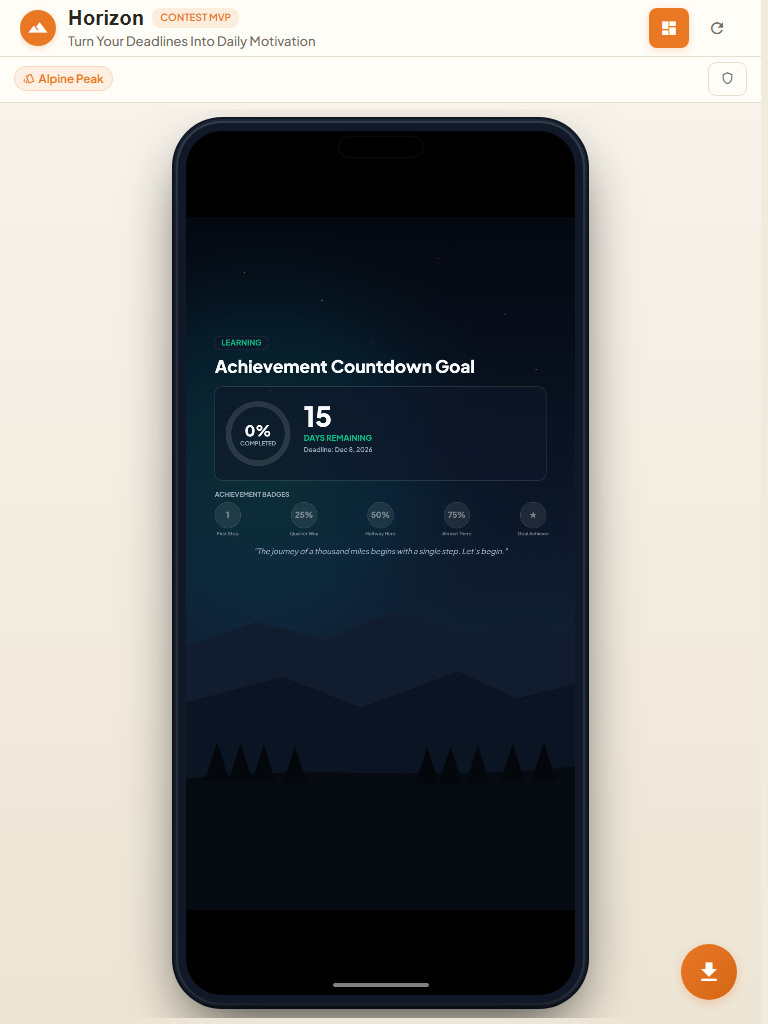
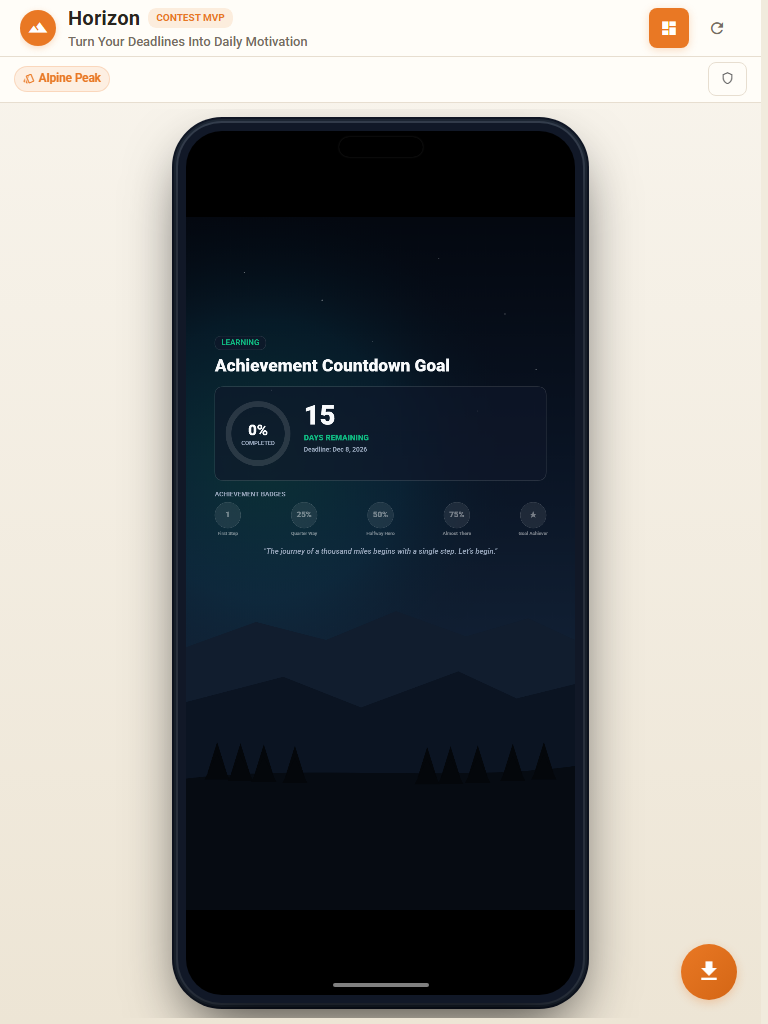
feat(typography): adopt Roboto font across app and wallpaper canvas following Vuetify rules

diff --git a/src/assets/styles.css b/src/assets/styles.css
@@ -45,7 +45,7 @@ html {
 body {
   margin: 0;
   padding: 0;
-  font-family: 'Plus Jakarta Sans', -apple-system, BlinkMacSystemFont, 'Segoe UI', Roboto, Helvetica, Arial, sans-serif;
+  font-family: 'Roboto', -apple-system, BlinkMacSystemFont, 'Segoe UI', Arial, sans-serif !important;
   background-color: var(--color-bg-page);
   color: var(--color-text-primary);
   -webkit-font-smoothing: antialiased;
@@ -56,6 +56,7 @@ body {
 
 /* Base Vuetify overrides for warm cream theme */
 .v-application {
+  font-family: 'Roboto', -apple-system, BlinkMacSystemFont, 'Segoe UI', Arial, sans-serif !important;
   background-color: var(--color-bg-page) !important;
   color: var(--color-text-primary) !important;
   max-width: 100vw;
@@ -160,6 +161,14 @@ body {
   color: var(--color-text-disabled) !important;
   opacity: 1 !important;
 }
+
+/* Vuetify Typography Rule Helpers */
+.font-weight-thin { font-weight: 100 !important; }
+.font-weight-light { font-weight: 300 !important; }
+.font-weight-regular { font-weight: 400 !important; }
+.font-weight-medium { font-weight: 500 !important; }
+.font-weight-bold { font-weight: 700 !important; }
+.font-weight-black { font-weight: 900 !important; }
 
 /* Headings Typography Refinement - Clean reset to eliminate arbitrary margins */
 h1, h2, h3, h4, h5, h6 {

diff --git a/src/services/CanvasWallpaperEngine.js b/src/services/CanvasWallpaperEngine.js
@@ -273,7 +273,7 @@ export class CanvasWallpaperEngine {
    */
   static renderMobileLayout(ctx, width, height, safeZone, data) {
     const { goal, palette, daysRemaining, progressPct, activeMilestone, upcomingMilestone, badges, motivation } = data;
-    const fontPrimary = "'Plus Jakarta Sans', system-ui, -apple-system, sans-serif";
+    const fontPrimary = "'Roboto', -apple-system, BlinkMacSystemFont, system-ui, sans-serif";
 
     const contentLeft = safeZone.sideMargin;
     const contentWidth = width - (safeZone.sideMargin * 2);
@@ -473,7 +473,7 @@ export class CanvasWallpaperEngine {
    */
   static renderDesktopLayout(ctx, width, height, safeZone, data) {
     const { goal, palette, daysRemaining, progressPct, activeMilestone, upcomingMilestone, badges, motivation } = data;
-    const fontPrimary = "'Plus Jakarta Sans', system-ui, -apple-system, sans-serif";
+    const fontPrimary = "'Roboto', -apple-system, BlinkMacSystemFont, system-ui, sans-serif";
 
     // Desktop Asymmetric Split:
     // Left 55% (Art Scenic Focus & Quote)

diff --git a/index.html b/index.html
@@ -7,7 +7,7 @@
     <title>Horizon — Achievement Countdown Wallpaper Creator</title>
     <link rel="preconnect" href="https://fonts.googleapis.com">
     <link rel="preconnect" href="https://fonts.gstatic.com" crossorigin>
-    <link href="https://fonts.googleapis.com/css2?family=Plus+Jakarta+Sans:wght@400;500;600;700;800&display=swap" rel="stylesheet">
+    <link href="https://fonts.googleapis.com/css2?family=Roboto:ital,wght@0,300;0,400;0,500;0,700;0,900;1,300;1,400;1,500;1,700;1,900&display=swap" rel="stylesheet">
   </head>
   <body>
     <div id="app"></div>
